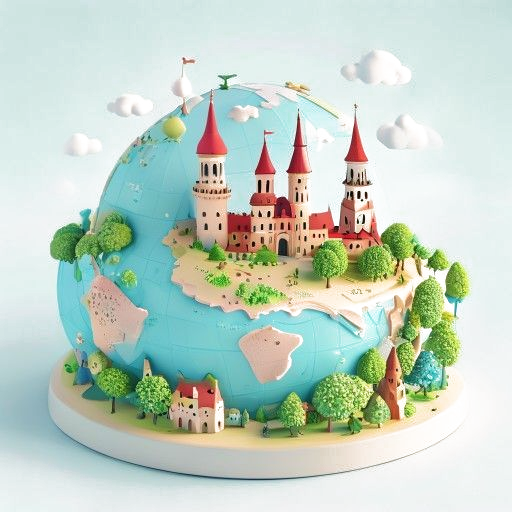
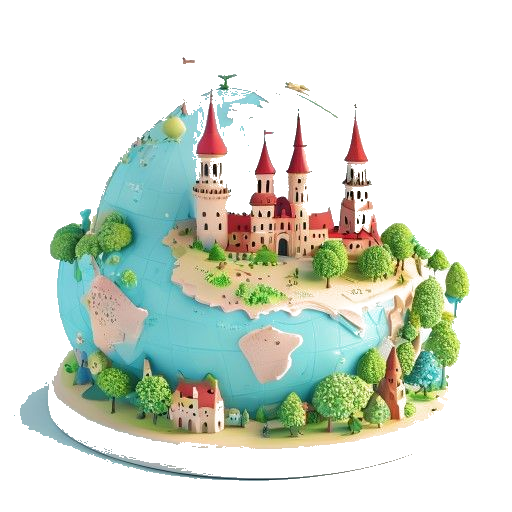
feat(student): sjednocené čtvercové karty, 4 denní úkoly a UI opravy dashboardu
Dashboard /student (AnonStudentPage) + TopicBrowser:
- Všechny gridy převedeny na jednotné aspect-square čtverce; dashboard
  omezen na 2 sloupce (širší karty 304px), aby se vešel celý text bez ořezu.
- DailyTaskList přepsán ze seznamu na čtvercové karty.
- TopicBrowser: odstraněn duplicitní nadpis předmětu na úrovni okruhů;
  asymetrický featured subject layout nahrazen jednotnými čtverci.
- SubjectGrid: karty předmětů zobrazují až 3 okruhy barevným textem
  v barvě předmětu (styl jako denní úkoly).
- Denní úkoly 3 -> 4 (DEFAULT_DAILY_COUNT); texty cvičení přes pad(...)
  dle czechGrammar; getTodayProgress doplní 4. úkol do už uloženého
  dnešního progressu bez ztráty pokroku.
- subject-vlastiveda.png: odstraněno neprůhledné modré pozadí
  (flood-fill od rohů), zeměkoule v motivu zachována.

diff --git a/src/pages/AnonStudentPage.tsx b/src/pages/AnonStudentPage.tsx
@@ -13,6 +13,7 @@ import {
   TRIAL_DAYS,
 } from "@/lib/anonTrial";
 import { getSubjectMeta } from "@/lib/subjectRegistry";
+import { getDisplayCategory } from "@/lib/displayNames";
 import { IllustrationImg } from "@/components/IllustrationImg";
 import { ArrowRight, Check, Sparkles, Heart, BookOpen } from "lucide-react";
 import { InviteParentDialog } from "@/components/InviteParentDialog";
@@ -207,7 +208,7 @@ export default function AnonStudentPage() {
               <div>
                 <h1 className="text-3xl font-bold text-violet-900">Dnes ti Oli doporučuje</h1>
                 <p className="text-violet-700/70 mt-1">
-                  3 cvičení pro {grade}. ročník — {pad(daysRemaining, "DEN")} přístupu zdarma
+                  {pad(dailyTopics.length, "CVIČENÍ")} pro {grade}. ročník — {pad(daysRemaining, "DEN")} přístupu zdarma
                 </p>
               </div>
               <DailyTaskList topics={dailyTopics} onStart={handleStartTopic} />
@@ -229,7 +230,7 @@ export default function AnonStudentPage() {
           <section className="space-y-4">
             <div>
               <h1 className="text-3xl font-bold text-violet-900">Dnešní úkoly</h1>
-              <p className="text-violet-700/70 mt-1">3 cvičení zdarma každý den</p>
+              <p className="text-violet-700/70 mt-1">{pad(dailyTopics.length, "CVIČENÍ")} zdarma každý den</p>
             </div>
             <DailyTaskList topics={dailyTopics} onStart={handleStartTopic} />
           </section>
@@ -280,48 +281,52 @@ interface DailyTaskListProps {
 
 function DailyTaskList({ topics, onStart }: DailyTaskListProps) {
   return (
-    <div className="space-y-3">
+    <div className="grid grid-cols-1 sm:grid-cols-2 gap-4">
       {topics.map(({ topic, completed }) => {
         const meta = getSubjectMeta(topic.subject);
         const title = topic.displayName ?? topic.studentTitle ?? topic.title;
         return (
           <div
             key={topic.id}
-            className={`flex items-center gap-4 rounded-2xl p-4 transition-all ${
+            className={`group aspect-square flex flex-col rounded-3xl p-6 transition-all ${
               completed
                 ? "bg-emerald-50 border-2 border-emerald-200"
-                : "bg-white border-2 border-violet-100 hover:border-violet-300 hover:shadow-md"
+                : "bg-white border-2 border-violet-100 hover:border-violet-300 hover:shadow-md hover:-translate-y-0.5"
             }`}
           >
-            <IllustrationImg
-              src={meta.image}
-              className="h-12 w-12 object-contain shrink-0 mix-blend-multiply"
-              fallback={<span className="text-2xl">{meta.emoji}</span>}
-            />
-            <div className="flex-1 min-w-0">
-              <div className="flex items-baseline gap-1.5 mb-0.5">
-                <p className={`text-base font-bold leading-tight ${meta.color}`}>{meta.label}</p>
-                {topic.category && (
-                  <>
-                    <span className={`text-base font-bold ${meta.color}`}>|</span>
-                    <p className={`text-base font-bold truncate ${meta.color}`}>{topic.category}</p>
-                  </>
-                )}
-              </div>
-              <p className="font-semibold text-gray-900 truncate">{title}</p>
+            <div className="flex-1 flex items-center justify-center min-h-0">
+              <IllustrationImg
+                src={meta.image}
+                className="h-28 w-28 object-contain mix-blend-multiply"
+                fallback={<span className="text-6xl">{meta.emoji}</span>}
+              />
             </div>
-            {completed ? (
-              <span className="flex items-center gap-1.5 text-emerald-700 font-semibold text-sm shrink-0 px-3 py-1.5">
-                <Check className="h-4 w-4" /> Splněno
-              </span>
-            ) : (
-              <button
-                onClick={() => onStart(topic.id)}
-                className="flex items-center gap-1.5 rounded-xl bg-violet-600 text-white px-4 py-2 text-sm font-semibold hover:bg-violet-700 active:scale-95 transition-all shrink-0"
-              >
-                Začít <ArrowRight className="h-4 w-4" />
-              </button>
-            )}
+            <div className="space-y-2">
+              <div>
+                <div className="flex items-baseline gap-1 flex-wrap leading-tight">
+                  <span className={`text-sm font-bold ${meta.color}`}>{meta.label}</span>
+                  {topic.category && (
+                    <>
+                      <span className={`text-sm font-bold ${meta.color}`}>|</span>
+                      <span className={`text-sm font-bold ${meta.color}`}>{topic.category}</span>
+                    </>
+                  )}
+                </div>
+                <p className="font-bold text-gray-900 text-base leading-tight">{title}</p>
+              </div>
+              {completed ? (
+                <span className="flex items-center justify-center gap-1.5 text-emerald-700 font-semibold text-sm py-2">
+                  <Check className="h-4 w-4" /> Splněno
+                </span>
+              ) : (
+                <button
+                  onClick={() => onStart(topic.id)}
+                  className="w-full flex items-center justify-center gap-1.5 rounded-xl bg-violet-600 text-white px-3 py-2.5 text-sm font-semibold hover:bg-violet-700 active:scale-95 transition-all"
+                >
+                  Začít <ArrowRight className="h-4 w-4" />
+                </button>
+              )}
+            </div>
           </div>
         );
       })}
@@ -330,27 +335,38 @@ function DailyTaskList({ topics, onStart }: DailyTaskListProps) {
 }
 
 function SubjectGrid({ grade, onSelect }: { grade: number; onSelect: (subject: string) => void }) {
-  const subjects = useMemo(() => {
-    const all = getAllTopics().filter((t) => t.gradeRange[0] <= grade && t.gradeRange[1] >= grade);
-    return [...new Set(all.map((t) => t.subject))];
-  }, [grade]);
+  const topicsForGrade = useMemo(
+    () => getAllTopics().filter((t) => t.gradeRange[0] <= grade && t.gradeRange[1] >= grade),
+    [grade],
+  );
+  const subjects = useMemo(() => [...new Set(topicsForGrade.map((t) => t.subject))], [topicsForGrade]);
 
   return (
-    <div className="grid grid-cols-2 sm:grid-cols-3 gap-3">
+    <div className="grid grid-cols-1 sm:grid-cols-2 gap-4">
       {subjects.map((subject) => {
         const meta = getSubjectMeta(subject);
+        const categories = [...new Set(topicsForGrade.filter((t) => t.subject === subject).map((t) => t.category))];
         return (
           <button
             key={subject}
             onClick={() => onSelect(subject)}
-            className="flex flex-col items-center gap-2 rounded-2xl bg-white border-2 border-violet-100 hover:border-violet-400 hover:shadow-md p-4 transition-all group"
+            className="group aspect-square flex flex-col items-center justify-center gap-3 rounded-3xl bg-white border-2 border-violet-100 hover:border-violet-400 hover:shadow-md hover:-translate-y-0.5 p-6 transition-all"
           >
             <IllustrationImg
               src={meta.image}
-              className="h-14 w-14 object-contain"
-              fallback={<span className="text-4xl">{meta.emoji}</span>}
+              className="h-24 w-24 object-contain"
+              fallback={<span className="text-6xl">{meta.emoji}</span>}
             />
-            <p className={`text-sm font-bold text-center ${meta.color}`}>{meta.label}</p>
+            <p className={`text-xl font-bold text-center ${meta.color}`}>{meta.label}</p>
+            {categories.length > 0 && (
+              <div className="flex flex-col items-center gap-0.5">
+                {categories.slice(0, 3).map((c) => (
+                  <span key={c} className={`text-sm font-semibold text-center ${meta.color} opacity-80`}>
+                    {getDisplayCategory(c, grade as Parameters<typeof getDisplayCategory>[1])}
+                  </span>
+                ))}
+              </div>
+            )}
           </button>
         );
       })}

diff --git a/src/components/TopicBrowser.tsx b/src/components/TopicBrowser.tsx
@@ -276,9 +276,9 @@ export function TopicBrowser({ grade, onSelectTopic, onBack, isAdmin, initialSub
             <BackButton onClick={handleBack} />
           </div>
 
-          {/* Asymmetric grid: 1. subject = velká karta vlevo, ostatní = stack vpravo */}
-          <div className="grid grid-cols-1 md:grid-cols-3 gap-4">
-            {subjects.map((subject, idx) => {
+          {/* Jednotný čtvercový grid — všechny předměty stejně velké */}
+          <div className="grid grid-cols-1 sm:grid-cols-2 lg:grid-cols-3 gap-4">
+            {subjects.map((subject) => {
               const subjectTopics = topics.filter((t) => t.subject === subject);
               const cats = [...new Set(subjectTopics.map((t) => t.category))];
               const count = cats.length;
@@ -289,65 +289,26 @@ export function TopicBrowser({ grade, onSelectTopic, onBack, isAdmin, initialSub
                 chipBg: "bg-white/80 text-foreground",
                 chipText: "text-foreground",
               };
-              const isPrimary = idx === 0;
-              // Top 3 categories jako chip pills
-              const chipCategories = cats.slice(0, 3).map((c) => {
-                // Zkrácení dlouhých kategorií
-                const short = c.length > 14 ? c.split(" ")[0] : c;
-                return short;
-              });
 
               return (
                 <button
                   key={subject}
                   type="button"
                   onClick={() => handleSubjectClick(subject)}
-                  className={`group relative text-left rounded-3xl border-2 ${cardStyle.bg} ${cardStyle.border} shadow-soft-1 transition-all hover:shadow-lg hover:-translate-y-0.5 min-h-[130px] p-5 ${
-                    isPrimary ? "md:col-span-2 md:row-span-2 md:min-h-[360px] md:p-6" : ""
-                  }`}
+                  className={`group aspect-square relative text-left rounded-3xl border-2 ${cardStyle.bg} ${cardStyle.border} shadow-soft-1 transition-all hover:shadow-lg hover:-translate-y-0.5 p-4 flex flex-col`}
                 >
-                  {/* Mobile: kompaktní layout pro všechny karty */}
-                  <div className={`flex items-center gap-3 h-full ${isPrimary ? "md:hidden" : ""}`}>
-                    <div className="flex-1 min-w-0 space-y-1.5">
-                      <h3 className="text-xl font-black text-foreground tracking-tight">
-                        {capitalize(subject)}
-                      </h3>
-                      <p className="text-xs text-foreground/70">
-                        {count} {count === 1 ? t("count.category_1") : count < 5 ? t("count.category_2_4") : t("count.category_5_plus")}
-                      </p>
-                      {chipCategories.length > 0 && (
-                        <div className="flex flex-wrap gap-1 pt-1">
-                          {chipCategories.map((c, i) => (
-                            <span key={i} className={`rounded-full ${cardStyle.chipBg} px-2 py-0.5 text-[10px] font-semibold`}>
-                              {c}
-                            </span>
-                          ))}
-                        </div>
-                      )}
-                    </div>
-                    <div className="shrink-0">
-                      <PrvoukaImage imageUrl={meta.image || null} fallbackEmoji={meta.emoji} size="md" />
-                    </div>
-                    <span className={`grid h-8 w-8 shrink-0 place-items-center rounded-full bg-white/90 ${cardStyle.chipText} shadow-soft-1 transition-transform group-hover:translate-x-0.5`} aria-hidden>›</span>
+                  <span className={`absolute top-3 right-3 grid h-8 w-8 place-items-center rounded-full bg-white/90 ${cardStyle.chipText} shadow-soft-1 transition-transform group-hover:translate-x-0.5`} aria-hidden>›</span>
+                  <div className="flex-1 flex items-center justify-center">
+                    <PrvoukaImage imageUrl={meta.image || null} fallbackEmoji={meta.emoji} size="lg" />
                   </div>
-
-                  {/* Desktop primary karta — ilustrace nahoře, text dole */}
-                  {isPrimary && (
-                    <div className="hidden md:flex flex-col h-full">
-                      <div className="flex-1 flex items-center justify-center py-4">
-                        <PrvoukaImage imageUrl={meta.image || null} fallbackEmoji={meta.emoji} size="hero" />
-                      </div>
-                      <div className="space-y-2">
-                        <h3 className="text-3xl sm:text-4xl font-black text-foreground tracking-tight">
-                          {capitalize(subject)}
-                        </h3>
-                        <p className="text-sm text-foreground/70">
-                          {count} {count === 1 ? t("count.category_1") : count < 5 ? t("count.category_2_4") : t("count.category_5_plus")}
-                        </p>
-                      </div>
-                      <span className={`absolute top-4 right-4 grid h-9 w-9 place-items-center rounded-full bg-white/90 ${cardStyle.chipText} shadow-soft-1 transition-transform group-hover:translate-x-0.5 text-lg`} aria-hidden>›</span>
-                    </div>
-                  )}
+                  <div className="space-y-1">
+                    <h3 className="text-lg font-black text-foreground tracking-tight leading-tight">
+                      {capitalize(subject)}
+                    </h3>
+                    <p className="text-xs text-foreground/70">
+                      {count} {count === 1 ? t("count.category_1") : count < 5 ? t("count.category_2_4") : t("count.category_5_plus")}
+                    </p>
+                  </div>
                 </button>
               );
             })}
@@ -398,9 +359,13 @@ export function TopicBrowser({ grade, onSelectTopic, onBack, isAdmin, initialSub
               {/* Title + back */}
               <div className="flex items-end justify-between gap-3">
                 <div className="min-w-0">
-                  <h2 className="text-3xl font-black tracking-tight text-foreground truncate">
-                    {title}
-                  </h2>
+                  {/* Na úrovni "category" je title = předmět, který už nese
+                      welcome banner výše — nezobrazovat ho podruhé. */}
+                  {level !== "category" && (
+                    <h2 className="text-3xl font-black tracking-tight text-foreground truncate">
+                      {title}
+                    </h2>
+                  )}
                   <p className="text-sm text-muted-foreground">
                     {level === "category"
                       ? "Vyber si okruh, který chceš procvičovat."
@@ -417,7 +382,7 @@ export function TopicBrowser({ grade, onSelectTopic, onBack, isAdmin, initialSub
 
               {/* CATEGORY level — čtvercový grid */}
               {level === "category" && (
-                <div className="grid grid-cols-2 md:grid-cols-3 gap-4">
+                <div className="grid grid-cols-1 sm:grid-cols-2 lg:grid-cols-3 gap-4">
                   {categories.map((category) => {
                     const catTopics = topics.filter((t) => t.subject === selectedSubject && t.category === category);
                     const count = new Set(catTopics.map((t) => t.topic)).size;
@@ -450,7 +415,7 @@ export function TopicBrowser({ grade, onSelectTopic, onBack, isAdmin, initialSub
 
               {/* TOPIC level — asymmetric grid s description na primary */}
               {level === "topic" && (
-                <div className="grid grid-cols-2 md:grid-cols-3 gap-4">
+                <div className="grid grid-cols-1 sm:grid-cols-2 lg:grid-cols-3 gap-4">
                   {topicGroups.map((topicName) => {
                     const skillsInGroup = topics.filter(
                       (t) => t.subject === selectedSubject && t.category === selectedCategory && t.topic === topicName
@@ -492,7 +457,7 @@ export function TopicBrowser({ grade, onSelectTopic, onBack, isAdmin, initialSub
 
               {/* SUBTOPIC level — čtvercový grid */}
               {level === "subtopic" && (
-                <div className="grid grid-cols-2 md:grid-cols-3 gap-4">
+                <div className="grid grid-cols-1 sm:grid-cols-2 lg:grid-cols-3 gap-4">
                   {subtopics.map((topic) => {
                     const subEmoji = getTopicEmoji(selectedSubject!, selectedCategory!, selectedTopic!);
                     const isDbOnly = !hasCodeGenerator(topic);

diff --git a/src/lib/anonProgress.ts b/src/lib/anonProgress.ts
@@ -46,12 +46,25 @@ function writeProgress(p: AnonDailyProgress): void {
 export function getTodayProgress(grade: number): AnonDailyProgress {
   const today = getTodayDateString();
   const saved = readProgress();
+  const dailyTopics = getDailyTasksForGrade(grade);
 
   if (saved && saved.date === today && saved.grade === grade) {
+    // Cílový počet úkolů se mohl zvětšit (např. 3 → 4) — doplň nové úkoly,
+    // ale zachovej dosavadní pokrok u už rozpracovaných.
+    if (saved.tasks.length < dailyTopics.length) {
+      const existingIds = new Set(saved.tasks.map((t) => t.topicId));
+      for (const t of dailyTopics) {
+        if (saved.tasks.length >= dailyTopics.length) break;
+        if (!existingIds.has(t.id)) {
+          saved.tasks.push({ topicId: t.id, completed: false });
+          existingIds.add(t.id);
+        }
+      }
+      writeProgress(saved);
+    }
     return saved;
   }
 
-  const dailyTopics = getDailyTasksForGrade(grade);
   const fresh: AnonDailyProgress = {
     date: today,
     grade,

diff --git a/src/lib/anonDailyTasks.ts b/src/lib/anonDailyTasks.ts
@@ -1,5 +1,5 @@
 /**
- * Anonymní mód: výběr 3 denních úkolů pro nepřihlášené dítě.
+ * Anonymní mód: výběr 4 denních úkolů pro nepřihlášené dítě.
  * Deterministický (stejný den + ročník = stejné úkoly), preferuje různé předměty.
  */
 
@@ -7,7 +7,7 @@ import type { TopicMetadata } from "@/lib/types";
 import { getAllTopics } from "@/lib/contentRegistry";
 import { getBestAvailableGrade } from "./contentAvailability";
 
-const DEFAULT_DAILY_COUNT = 3;
+const DEFAULT_DAILY_COUNT = 4;
 
 function hashString(str: string): number {
   let hash = 0;
@@ -61,7 +61,7 @@ export function getTodayDateString(): string {
 }
 
 /**
- * Vrátí 3 denní úkoly pro daný ročník. Fallback na grade-4 pokud ročník nemá obsah.
+ * Vrátí 4 denní úkoly pro daný ročník. Fallback na grade-4 pokud ročník nemá obsah.
  * Deterministické per (datum, ročník).
  */
 export function getDailyTasksForGrade(

diff --git a/PROJECT_STATUS.md b/PROJECT_STATUS.md
@@ -139,6 +139,16 @@ src/
 | Grade-5 až Grade-9 | Grade-N sessions | ⏸️ Čeká |
 
 ### Session 2026-06-08 — hotovo:
+- ✅ **subject-vlastiveda.png: odstraněno neprůhledné pozadí.** Jediná subject ilustrace měla místo transparentního pozadí světle modrou oblohu → na bílé kartě (`mix-blend-multiply` umí skrýt jen bílou) zůstával viditelný čtverec. Pozadí odstraněno flood-fillem od rohů (sharp) — souvislé pozadí pryč, modrá zeměkoule v motivu zachována. Ověřeno: rohy alpha=0, střed alpha=255.
+- ✅ **Denní úkoly: 3 → 4 návrhy.** `DEFAULT_DAILY_COUNT = 4` v `anonDailyTasks.ts`; texty „X cvičení" v AnonStudentPage převedeny na `pad(dailyTopics.length, "CVIČENÍ")` (dynamicky dle počtu, dle pravidla czechGrammar). Výběr dál preferuje různé předměty → 4 úkoly = po jednom z matematiky/češtiny/vlastivědy/přírodovědy.
+  - `getTodayProgress` (anonProgress.ts) doplní nové úkoly do už uloženého dnešního progressu (3 → 4) bez ztráty dosavadního pokroku — stávající uživatelé uvidí 4. úkol hned po reloadu, ne až další den.
+- ✅ **SubjectGrid: výpis okruhů na kartách.** Karty předmětů na dashboardu zobrazují pod názvem až 3 okruhy (přes `getDisplayCategory` → dětské názvy tam, kde existují, jinak RVP). Styl sjednocen s denními úkoly — barevný text v barvě předmětu (ne šedé pilulky). Přírodověda má reálně jen 2 okruhy.
+- ✅ **Sjednocené čtvercové karty napříč /student dashboardem i TopicBrowserem.** Všechny gridy (DailyTaskList, SubjectGrid, TopicBrowser subject/topic/category/subtopic) převedeny na `aspect-square` čtverce.
+  - Dashboard (úzký kontejner ~624px): `grid-cols-1 sm:grid-cols-2` → karty 304×304, aby se vešel celý text bez ořezávání (odstraněn `line-clamp`/`truncate` u okruhu i tématu).
+  - TopicBrowser (max-w-5xl): `grid-cols-1 sm:grid-cols-2 lg:grid-cols-3` → karty ~331×331.
+  - DailyTaskList přepsán z horizontálního seznamu na grid: ilustrace nahoře, předmět | okruh, téma, tlačítko Začít / štítek Splněno dole.
+  - TopicBrowser subject grid: odstraněn asymetrický „featured" layout (1. předmět velký) ve prospěch jednotných čtverců.
+- ✅ **TopicBrowser: odstraněn duplicitní nadpis předmětu.** Na úrovni `category` byl název předmětu (např. „Čeština") dvakrát — ve welcome banneru i jako `h2`. Na úrovni `category` se `h2` už nezobrazuje (banner ho nese), na hlubších úrovních zůstává (banner = předmět, `h2` = okruh/téma).
 - ✅ **Grade-4 CJL: `displayName` + `recommendedNext` — 22/22 souborů.** Krátký rodičovský/dětský název + logická pedagogická návaznost v rámci podkategorií (slohová, čtení, stavba slova, tvarosloví, skladba, literární pojmy, práce s textem).
 - ✅ **Bonus — `language.test.ts` zelený:** opraveno 10× `briefDescription` >12 slov + 2× `studentTitle` >4 slova napříč grade-4 (CJL, vlastivěda, přírodověda). ⚠️ Zbývá předexistující fail `pisemneScitaniAOdcitani` (`gradeRange [4,4]` vs test `[4,5]`).
 - ✅ **Grade-4 CJL: explanation kompletní — 22/22 souborů.**